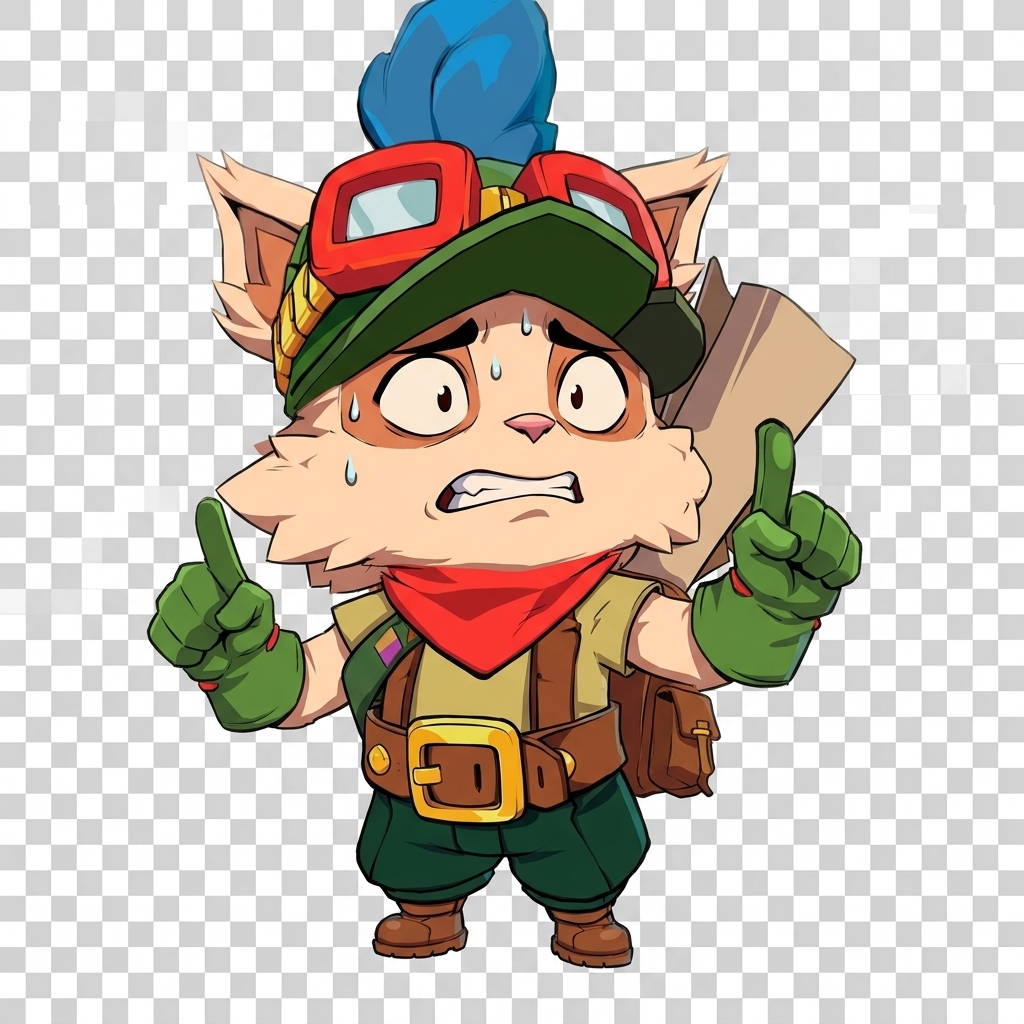
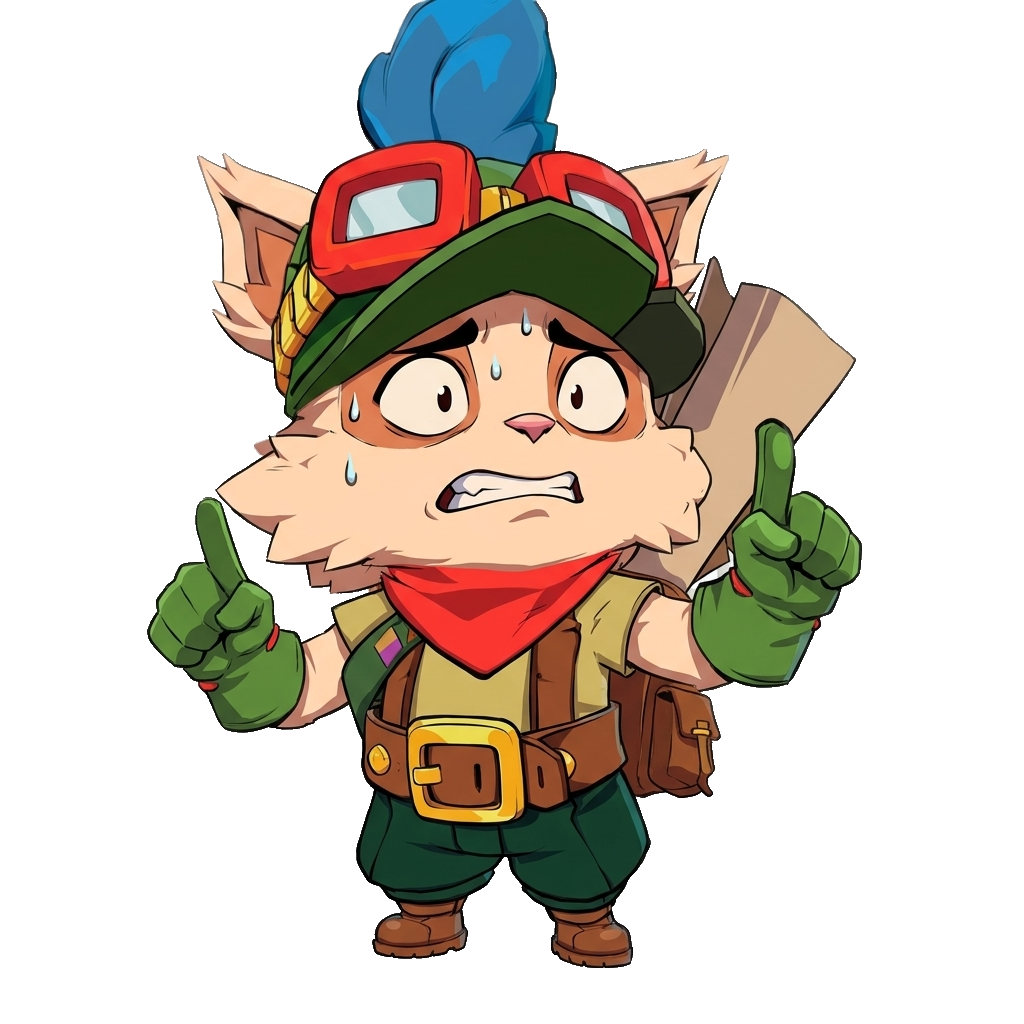
fix: make teemo images background transparent and add shrink-0 to prevent layout elements squishing

diff --git a/src/components/draft/brain-panel.tsx b/src/components/draft/brain-panel.tsx
@@ -209,7 +209,7 @@ export default function BrainPanel() {
       <div className="flex-1 overflow-y-auto p-5 md:p-6 lg:p-3.5 flex flex-col gap-5 lg:gap-3.5 max-h-[650px] md:max-h-[960px] lg:max-h-none lg:min-h-0">
         
         {/* iTero Win Rate Delta Simulator */}
-        <div className="border border-[#c8aa6e]/20 bg-[#1a2233]/40 p-4 rounded shadow-lg flex flex-col gap-2 relative overflow-hidden">
+        <div className="border border-[#c8aa6e]/20 bg-[#1a2233]/40 p-4 rounded shadow-lg flex flex-col gap-2 relative overflow-hidden shrink-0">
           <div className="flex justify-between items-center">
             <span className="text-[10px] uppercase tracking-widest font-black text-[#c8aa6e] flex items-center gap-1.5">
               <Activity className="w-3.5 h-3.5 text-[#00c8c8]" />
@@ -241,7 +241,7 @@ export default function BrainPanel() {
 
         {/* Evaluation of final draft synergy */}
         {phase === "complete" && (
-          <div className="flex flex-col gap-4">
+          <div className="flex flex-col gap-4 shrink-0">
             {matchingDuo ? (
               <>
                 <div className="p-5 border-2 border-[#c8aa6e] bg-[#0a1428] rounded shadow-[0_4px_12px_rgba(200,170,110,0.25)] flex flex-col gap-3">
@@ -431,7 +431,7 @@ export default function BrainPanel() {
         {/* Active turn indicator banner */}
         {phase !== "complete" && (
           <div 
-            className={`p-4 rounded border text-xs md:text-sm font-bold flex items-center gap-3 ${
+            className={`p-4 rounded border text-xs md:text-sm font-bold flex items-center gap-3 shrink-0 ${
               isMyTurn
                 ? "bg-[#00c8c8]/10 border-[#00c8c8] text-[#f0e6d3]"
                 : "bg-[#1e232a]/60 border-[#785a28]/45 text-[#8a9dae]"
@@ -445,7 +445,7 @@ export default function BrainPanel() {
         )}
 
         {/* Brain Recommendations */}
-        <div>
+        <div className="shrink-0">
           <h3 className="lol-title text-xs md:text-sm font-black text-[#c8aa6e] tracking-widest uppercase mb-3">
             {actionType === "ban" ? "Baneos Recomendados" : "Mejores Picks de Confort"}
           </h3>
@@ -539,7 +539,7 @@ export default function BrainPanel() {
 
         {/* Warnings / Hazards Alerts */}
         {warnings.length > 0 && (
-          <div className="p-4 border border-[#ff4655]/25 bg-[#ff4655]/5 flex gap-3">
+          <div className="p-4 border border-[#ff4655]/25 bg-[#ff4655]/5 flex gap-3 shrink-0">
             <AlertTriangle className="w-5 h-5 text-[#ff4655] shrink-0" />
             <div className="flex flex-col gap-1.5">
               <span className="text-[10px] md:text-xs uppercase tracking-wider font-extrabold text-[#ff4655]">
@@ -556,7 +556,7 @@ export default function BrainPanel() {
 
         {/* Win Conditions */}
         {winConditions.length > 0 && (
-          <div className="p-4 border border-[#00c8c8]/25 bg-[#00c8c8]/5 flex gap-3">
+          <div className="p-4 border border-[#00c8c8]/25 bg-[#00c8c8]/5 flex gap-3 shrink-0">
             <CheckCircle className="w-5 h-5 text-[#00c8c8] shrink-0" />
             <div className="flex flex-col gap-1.5">
               <span className="text-[10px] md:text-xs uppercase tracking-wider font-extrabold text-[#00c8c8]">
@@ -572,7 +572,7 @@ export default function BrainPanel() {
         )}
 
         {/* Comp Type Analysis (iTero AP/AD Damage Balance and Scaling Indicators) */}
-        <div className="grid grid-cols-1 md:grid-cols-2 gap-4 mt-2 border-t border-[#c8aa6e]/20 pt-4">
+        <div className="grid grid-cols-1 md:grid-cols-2 gap-4 mt-2 border-t border-[#c8aa6e]/20 pt-4 shrink-0">
           {/* Ally Comp */}
           <div className="v-stack gap-3 border border-[#785a28]/30 bg-[#1e232a]/30 p-4 rounded-sm">
             <div className="flex flex-col gap-0.5">

diff --git a/src/components/teemo-coach.tsx b/src/components/teemo-coach.tsx
@@ -74,7 +74,7 @@ export default function TeemoCoach({ isTalking = false, message }: TeemoCoachPro
 
   return (
     <div 
-      className="flex flex-col items-center justify-center p-4 bg-transparent select-none relative max-w-sm mx-auto"
+      className="flex flex-col items-center justify-center p-4 bg-transparent select-none relative max-w-sm mx-auto shrink-0"
       role="complementary"
       aria-label="Teemo Coach - Consejero de Draft y Salud"
     >
